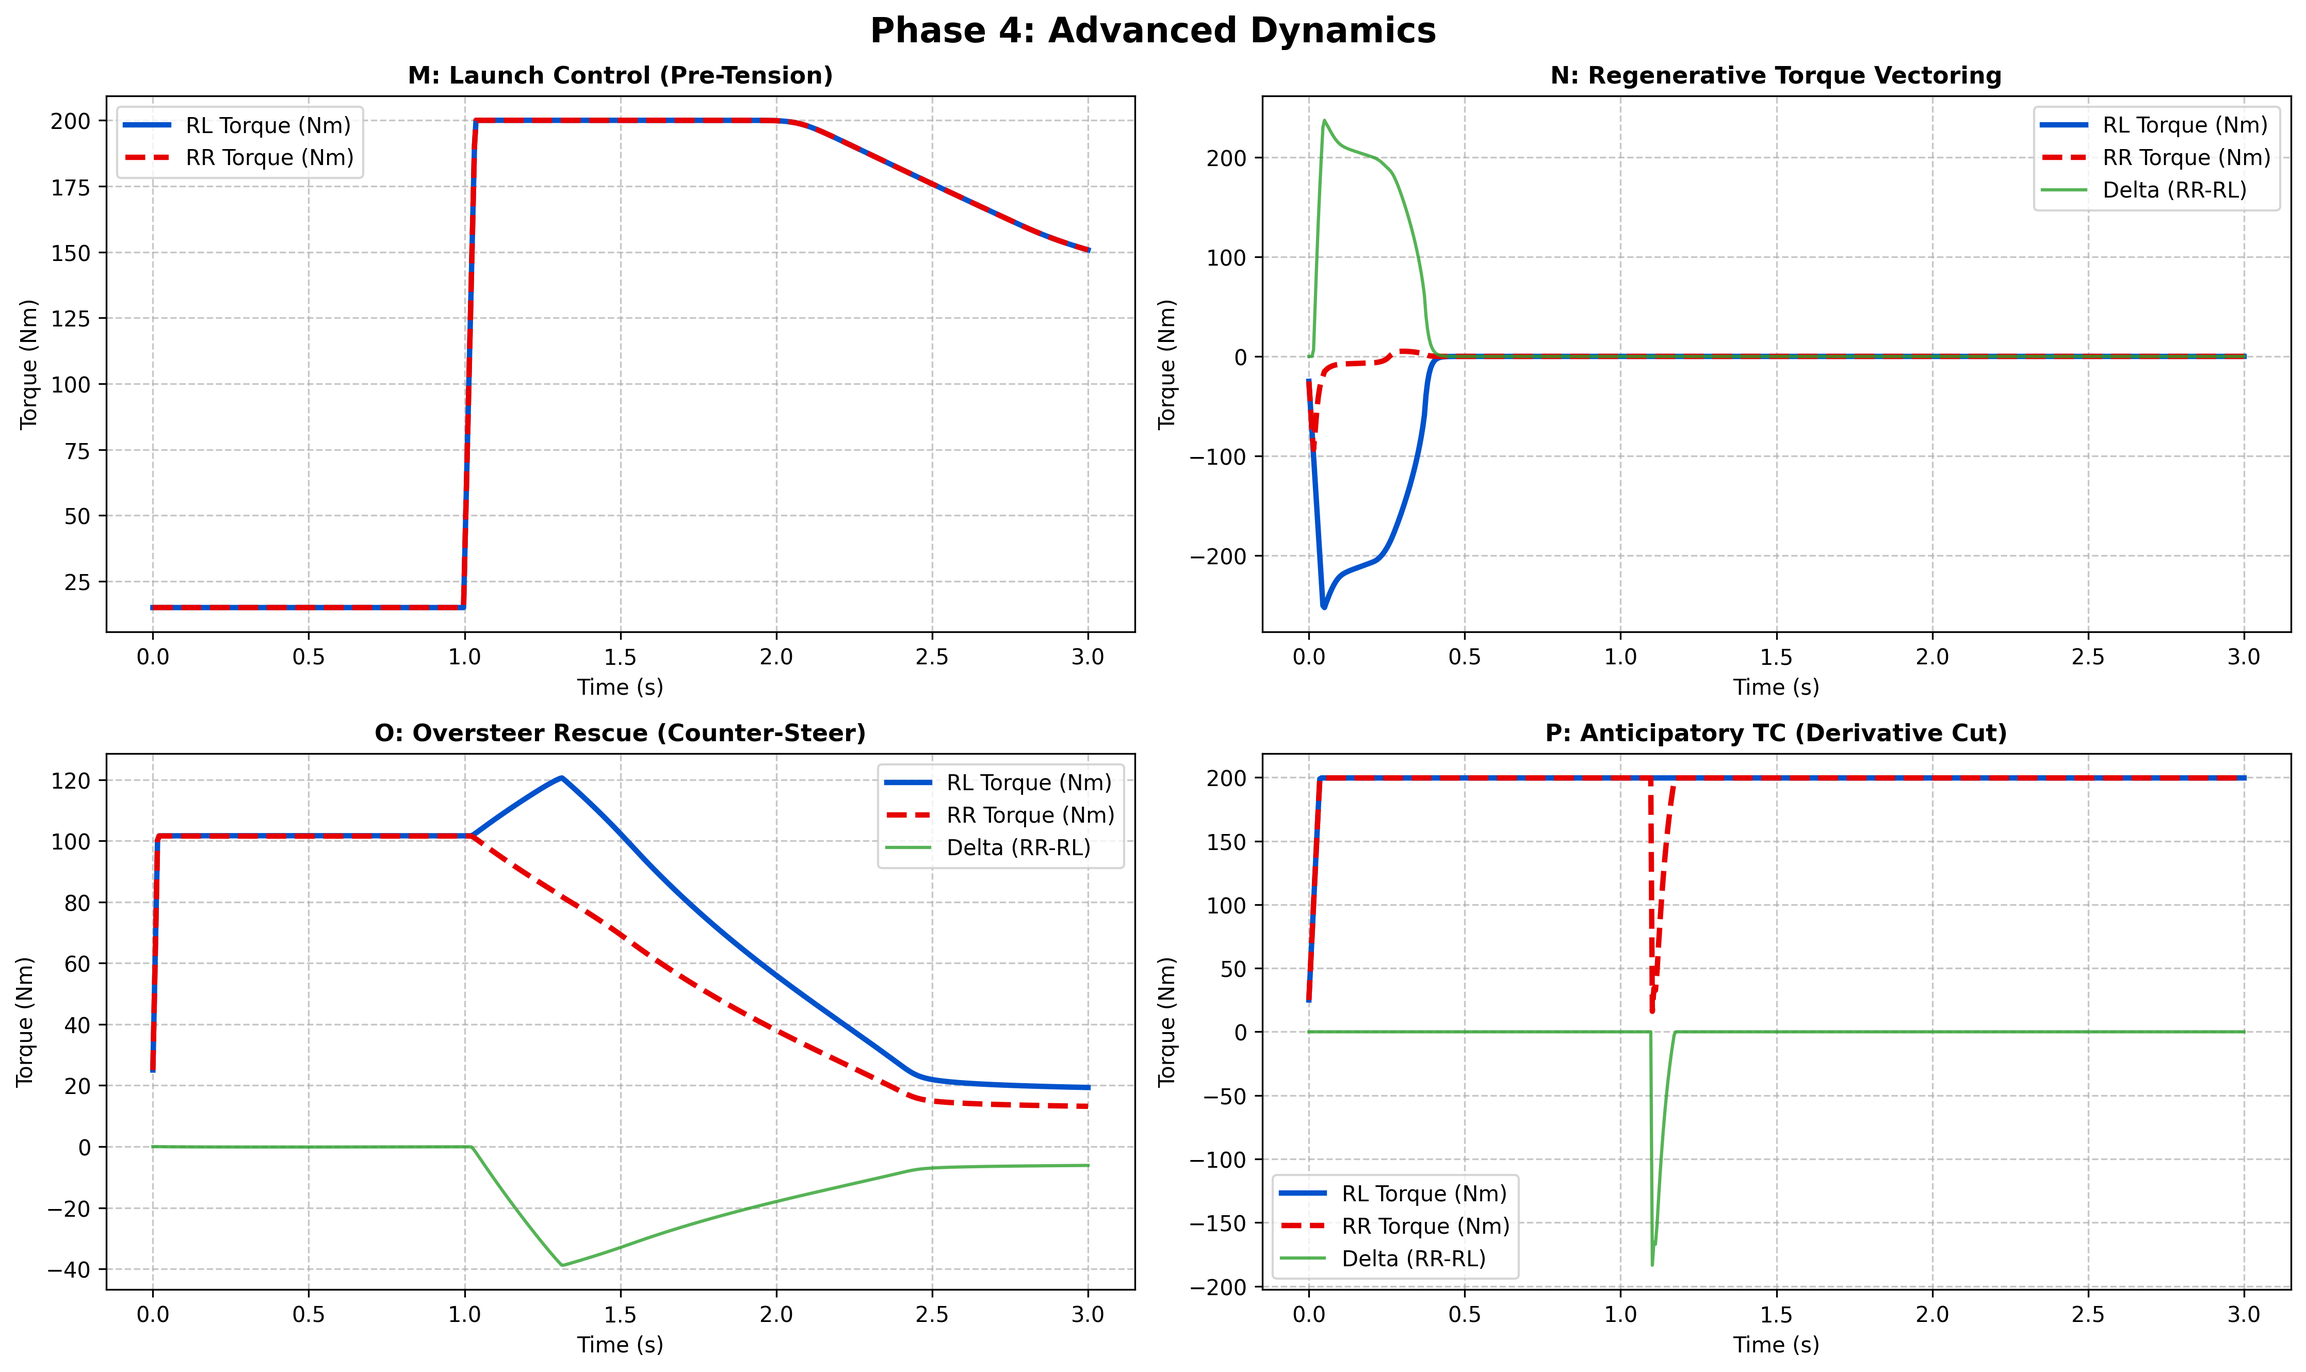
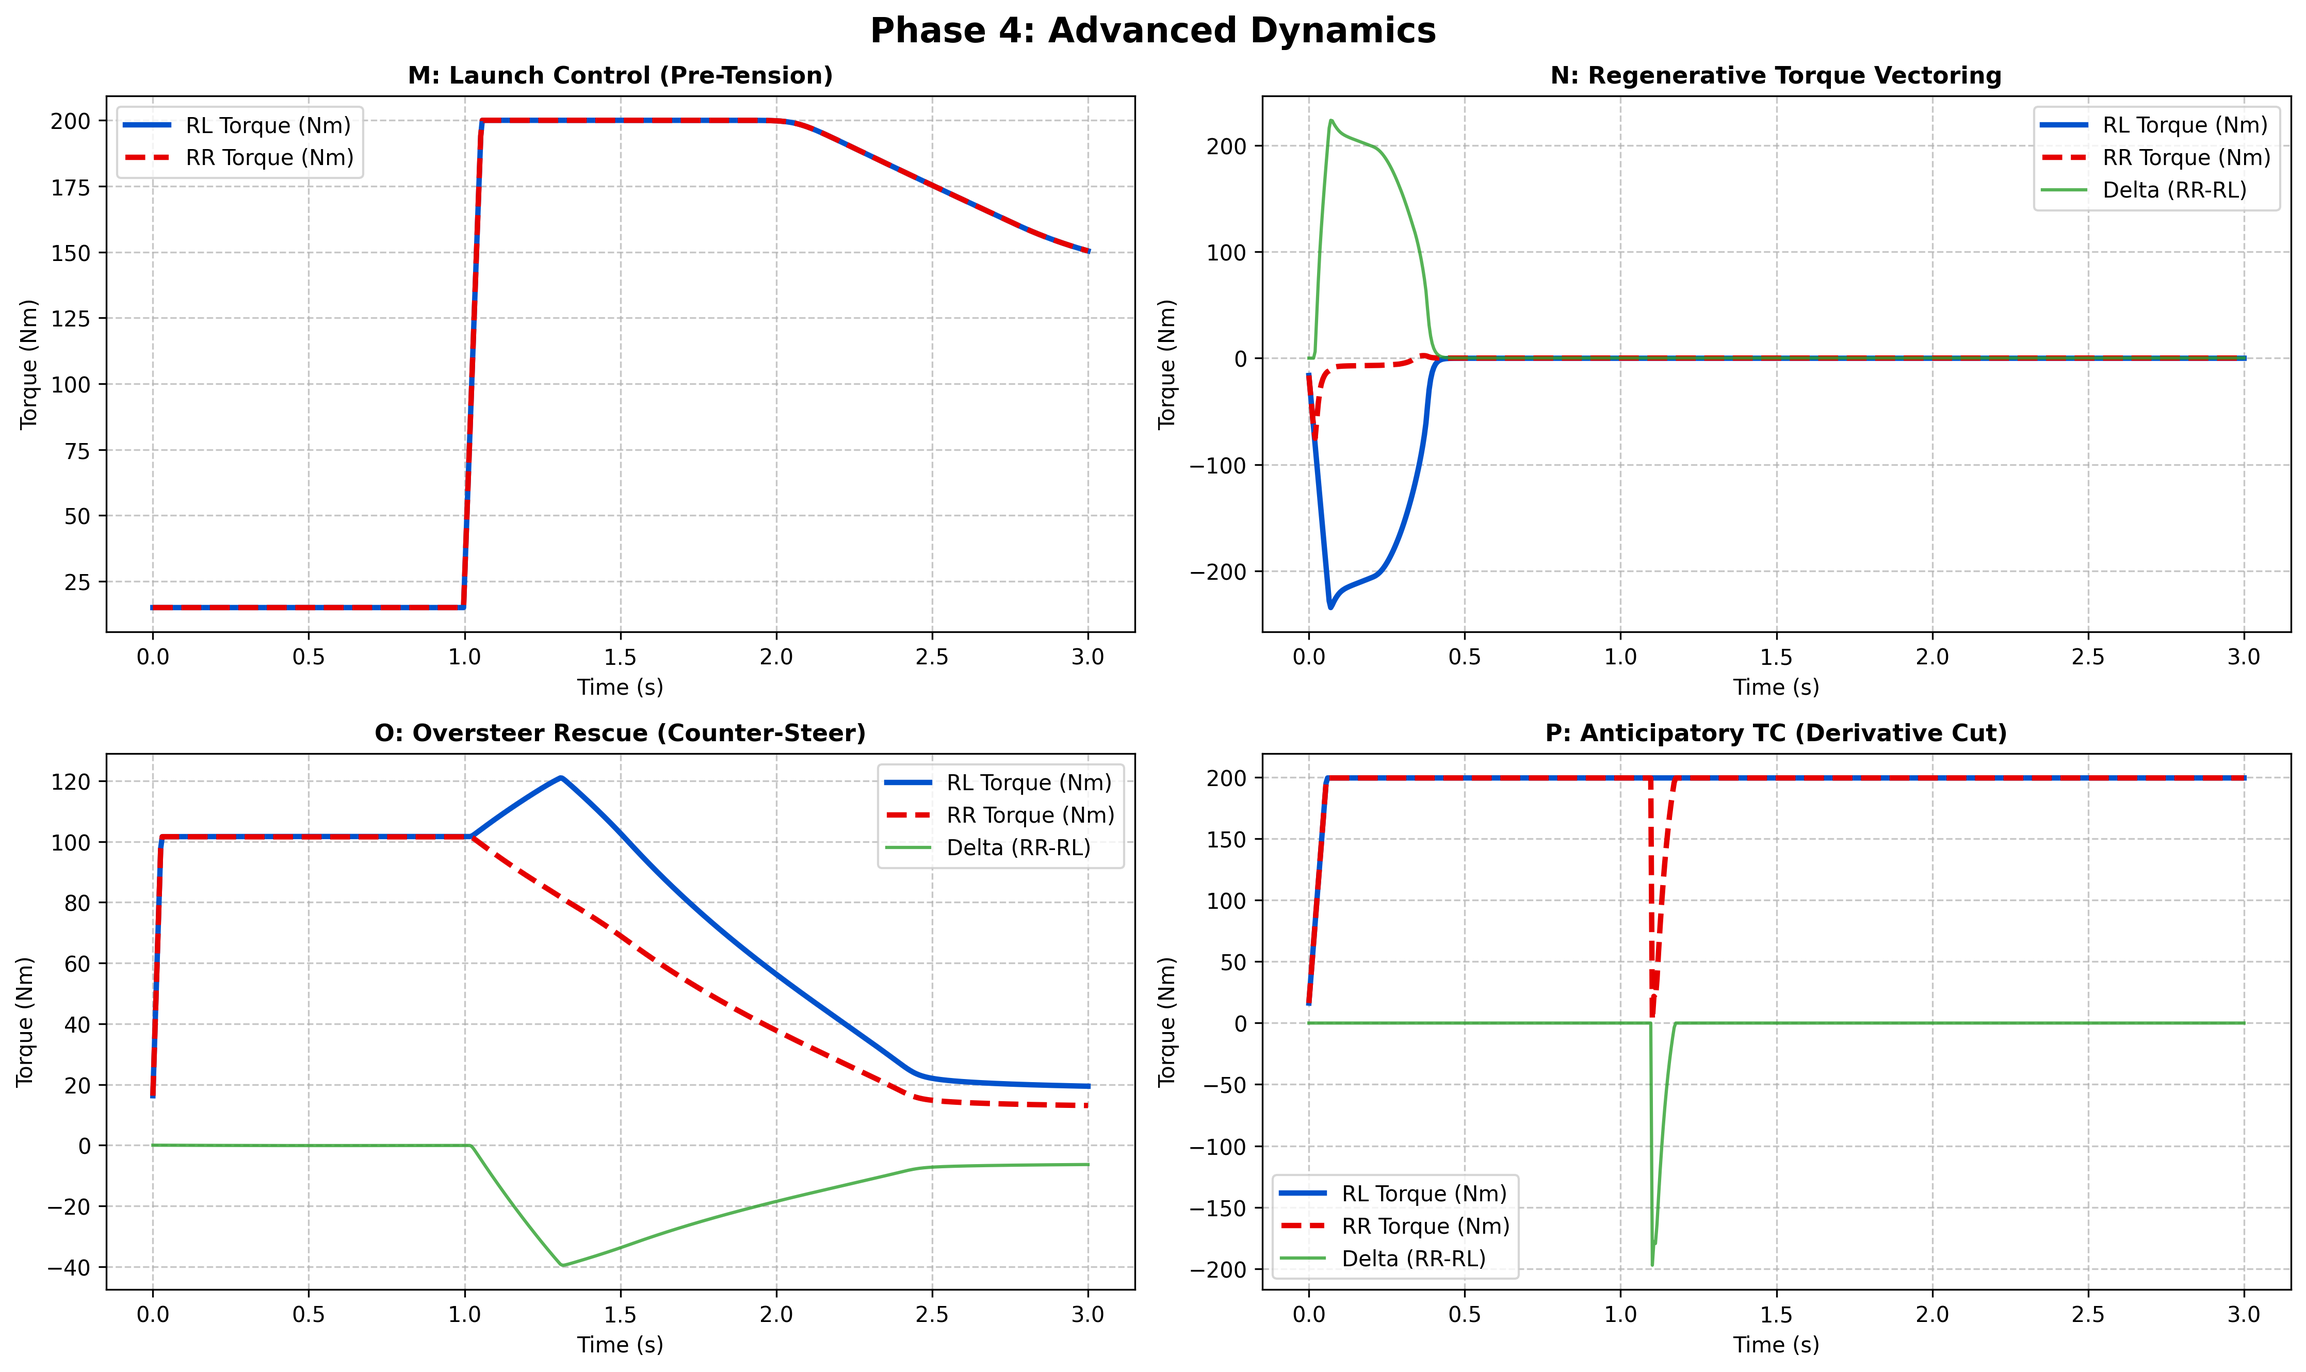
fix regen

diff --git a/SOFTWARE/TeR_ECU/Libraries/TRQ_VECTORING/tune_weights.py b/SOFTWARE/TeR_ECU/Libraries/TRQ_VECTORING/tune_weights.py
@@ -3,87 +3,91 @@ import re
 import numpy as np
 import os
 import sys
+import glob
 from sklearn.gaussian_process import GaussianProcessRegressor
 from sklearn.gaussian_process.kernels import Matern
 
-def update_header_file(smooth_val, reg_val, kp_val):
-    """ Programmatically updates the #define macros in header files using explicit group references """
-    with open("inc/gp_solver.h", "r") as f:
+def update_header_files(smooth_val, reg_val, kp_val, rate_limit_val):
+    """ Programmatically updates macros in canonical header files """
+    # Update canonical params file (gp_params.h)
+    with open("inc/gp_params.h", "r") as f:
         content = f.read()
     
     content = re.sub(r'(#define GP_W_SMOOTH\s+)[0-9\.]+(f?)', rf'\g<1>{smooth_val:.3f}f', content)
     content = re.sub(r'(#define GP_W_REG\s+)[0-9\.]+(f?)', rf'\g<1>{reg_val:.3f}f', content)
+    content = re.sub(r'(#define GP_TC_KP\s+)[0-9\.]+(f?)', rf'\g<1>{kp_val:.3f}f', content)
     
-    with open("inc/gp_solver.h", "w") as f:
+    with open("inc/gp_params.h", "w") as f:
         f.write(content)
 
-    with open("inc/gp_traction_control.h", "r") as f:
-        tc_content = f.read()
+    # Update TV rate limiter (gp_torque_vectoring.h)
+    with open("inc/gp_torque_vectoring.h", "r") as f:
+        tv_content = f.read()
         
-    tc_content = re.sub(r'(#define GP_TC_KP\s+)[0-9\.]+(f?)', rf'\g<1>{kp_val:.3f}f', tc_content)
+    tv_content = re.sub(r'(#define GP_TV_RATE_LIMIT\s+)[0-9\.]+(f?)', rf'\g<1>{rate_limit_val:.1f}f', tv_content)
     
-    with open("inc/gp_traction_control.h", "w") as f:
-        f.write(tc_content)
+    with open("inc/gp_torque_vectoring.h", "w") as f:
+        f.write(tv_content)
 
 def compile_c_core():
-    """ Re-compiles gp_core.so with the new weights """
-    cmd = [
-        "gcc", "-shared", "-fPIC", "-O3", "-lm",
-        "src/gp_math.c",
-        "src/gp_vehicle_model.c",
-        "src/gp_solver.c",
-        "src/gp_traction_control.c",
-        "src/gp_torque_vectoring.c",
-        "-I.", "-Isrc", "-Iinc",
-        "-o", "gp_core.so"
+    """ Re-compiles gp_core.so including all source files in src/ """
+    c_files = [
+        f for f in glob.glob("src/*.c")
+        if not any(ex in f for ex in ["gp_interface.c", "tv_mds.c", "pid.c"])
     ]
+    cmd = ["gcc", "-shared", "-fPIC", "-O3", "-lm"] + c_files + ["-I.", "-Isrc", "-Iinc", "-o", "gp_core.so"]
     result = subprocess.run(cmd, capture_output=True, text=True)
-    return result.returncode == 0
+    if result.returncode != 0:
+        print(f"\n[Compilation Error]:\n{result.stderr.strip()}\n")
+        return False
+    return True
 
 def evaluate_in_subprocess():
-    """ Evaluates performance in a fresh subprocess to bypass ctypes DLL caching """
+    """ Evaluates chatter & slew cost across transient step scenarios in an isolated process """
     eval_script = """
 import numpy as np
-import ctypes
-from master_sanity_checks import TVState, run_scenario, scenario_limit_slalom
-
-try:
-    gp_lib = ctypes.CDLL('./gp_core.so')
-except OSError:
-    print("ERR")
-    exit(1)
-
-gp_lib.gp_tv_step.argtypes = [
-    ctypes.c_float, ctypes.c_float, ctypes.c_float, ctypes.c_float, ctypes.c_float,
-    ctypes.c_float, ctypes.c_float, ctypes.POINTER(ctypes.c_float * 4), 
-    ctypes.c_float, ctypes.c_float, ctypes.c_float, ctypes.c_float, 
-    ctypes.c_uint8, ctypes.c_float, ctypes.POINTER(TVState), ctypes.POINTER(ctypes.c_float * 4)
-]
-gp_lib.gp_tv_init.argtypes = [ctypes.POINTER(TVState)]
+from master_sanity_checks import (
+    run_scenario,
+    scenario_regen_reversal, scenario_sensor_glitch, 
+    scenario_liftoff, scenario_launch_control, scenario_spinout_recovery_limit
+)
 
 time_steps = np.linspace(0, 3.0, 600)
 dt = time_steps[1] - time_steps[0]
 
-rl, rr, diff = run_scenario(time_steps, scenario_limit_slalom)
-slew_rate = np.diff(rl) / dt
-rms_noise = np.std(slew_rate)
+transient_scenarios = [
+    scenario_regen_reversal,
+    scenario_sensor_glitch,
+    scenario_liftoff,
+    scenario_launch_control,
+    scenario_spinout_recovery_limit
+]
 
-detrended = rl - np.linspace(rl[0], rl[-1], len(rl))
-window = np.hanning(len(detrended))
-fft_vals = np.abs(np.fft.rfft(detrended * window))
-freqs = np.fft.rfftfreq(len(detrended), d=dt)
-hf_energy = np.sum(fft_vals[freqs > 20.0])
+total_cost = 0.0
+for sc in transient_scenarios:
+    rl, rr, diff, beta, alpha_qp, mz_sat = run_scenario(time_steps, sc)
+    slew_rate = np.diff(rl) / dt
+    rms_noise = np.std(slew_rate)
 
-cost = hf_energy + (rms_noise * 0.5)
-print(f"{cost:.2f}")
+    detrended = rl - np.linspace(rl[0], rl[-1], len(rl))
+    window = np.hanning(len(detrended))
+    fft_vals = np.abs(np.fft.rfft(detrended * window))
+    freqs = np.fft.rfftfreq(len(detrended), d=dt)
+    hf_energy = np.sum(fft_vals[freqs > 20.0])
+
+    total_cost += hf_energy + (rms_noise * 0.5)
+
+print(f"{total_cost:.2f}")
 """
     result = subprocess.run([sys.executable, "-c", eval_script], capture_output=True, text=True)
-    if result.returncode != 0 or "ERR" in result.stdout:
-        return float('inf')
+    if result.returncode != 0:
+        print(f"\n[Subprocess Error Output]:\n{result.stderr.strip()}\n")
+        return 1e8
     try:
-        return float(result.stdout.strip())
+        val = float(result.stdout.strip())
+        return val if np.isfinite(val) else 1e8
     except ValueError:
-        return float('inf')
+        return 1e8
 
 def expected_improvement(X, X_sample, Y_sample, gpr, xi=0.01):
     """ Computes Expected Improvement acquisition function """
@@ -98,12 +102,17 @@ def expected_improvement(X, X_sample, Y_sample, gpr, xi=0.01):
     ei = improvement * norm.cdf(z) + sigma * norm.pdf(z)
     return ei
 
-def run_bayesian_optimization(total_iterations=30, init_random=5):
-    """ Runs Bayesian Optimization with a Gaussian Process Surrogate Model """
+def run_bayesian_optimization(total_iterations=40, init_random=10):
+    """ Optimizes GP_W_SMOOTH, GP_W_REG, GP_TC_KP, and GP_TV_RATE_LIMIT """
     print(f"\nStarting Bayesian Optimization Suite ({total_iterations} total trials)...\n")
     
-    # Parameter bounds: [GP_W_SMOOTH, GP_W_REG, GP_TC_KP]
-    bounds = np.array([[2.0, 6.0], [0.4, 1.5], [20.0, 60.0]])
+    # Parameter bounds: [GP_W_SMOOTH, GP_W_REG, GP_TC_KP, GP_TV_RATE_LIMIT]
+    bounds = np.array([
+        [8.0, 20.0],     # GP_W_SMOOTH (Shifted higher)
+        [0.05, 0.50],    # GP_W_REG (Shifted lower)
+        [15.0, 35.0],    # GP_TC_KP
+        [2500.0, 4000.0] # GP_TV_RATE_LIMIT (Centered around 3200)
+    ])
     
     X_sample = []
     Y_sample = []
@@ -116,25 +125,25 @@ def run_bayesian_optimization(total_iterations=30, init_random=5):
         smooth = np.random.uniform(bounds[0,0], bounds[0,1])
         reg = np.random.uniform(bounds[1,0], bounds[1,1])
         kp = np.random.uniform(bounds[2,0], bounds[2,1])
+        rate_lim = np.random.uniform(bounds[3,0], bounds[3,1])
         
-        update_header_file(smooth, reg, kp)
+        update_header_files(smooth, reg, kp, rate_lim)
         if not compile_c_core():
             continue
             
         cost = evaluate_in_subprocess()
-        print(f"Init Trial {i+1:2d} | Smooth: {smooth:.2f} | Reg: {reg:.2f} | KP: {kp:.1f} | Cost: {cost:8.2f}")
+        print(f"Init Trial {i+1:2d} | Smooth: {smooth:5.2f} | Reg: {reg:4.2f} | KP: {kp:4.1f} | RateLim: {rate_lim:6.1f} | Cost: {cost:8.2f}")
         
-        X_sample.append([smooth, reg, kp])
+        X_sample.append([smooth, reg, kp, rate_lim])
         Y_sample.append(cost)
         
         if cost < best_cost:
             best_cost = cost
-            best_params = (smooth, reg, kp)
+            best_params = (smooth, reg, kp, rate_lim)
 
     X_sample = np.array(X_sample)
     Y_sample = np.array(Y_sample)
     
-    # Gaussian Process Surrogate with Matérn Kernel
     kernel = Matern(nu=2.5)
     gpr = GaussianProcessRegressor(kernel=kernel, alpha=1e-6, normalize_y=True, n_restarts_optimizer=5, random_state=42)
     
@@ -142,42 +151,43 @@ def run_bayesian_optimization(total_iterations=30, init_random=5):
     for i in range(init_random, total_iterations):
         gpr.fit(X_sample, Y_sample)
         
-        # Sample candidate points randomly to maximize acquisition function (Expected Improvement)
         candidate_count = 2000
-        candidates = np.zeros((candidate_count, 3))
+        candidates = np.zeros((candidate_count, 4))
         candidates[:, 0] = np.random.uniform(bounds[0,0], bounds[0,1], candidate_count)
         candidates[:, 1] = np.random.uniform(bounds[1,0], bounds[1,1], candidate_count)
         candidates[:, 2] = np.random.uniform(bounds[2,0], bounds[2,1], candidate_count)
+        candidates[:, 3] = np.random.uniform(bounds[3,0], bounds[3,1], candidate_count)
         
         ei = expected_improvement(candidates, X_sample, Y_sample, gpr)
         next_x = candidates[np.argmax(ei)]
         
-        smooth, reg, kp = next_x[0], next_x[1], next_x[2]
+        smooth, reg, kp, rate_lim = next_x[0], next_x[1], next_x[2], next_x[3]
         
-        update_header_file(smooth, reg, kp)
+        update_header_files(smooth, reg, kp, rate_lim)
         if not compile_c_core():
             continue
             
         cost = evaluate_in_subprocess()
-        print(f"BO Trial   {i+1:2d} | Smooth: {smooth:.2f} | Reg: {reg:.2f} | KP: {kp:.1f} | Cost: {cost:8.2f} (EI selected)")
+        print(f"BO Trial   {i+1:2d} | Smooth: {smooth:5.2f} | Reg: {reg:4.2f} | KP: {kp:4.1f} | RateLim: {rate_lim:6.1f} | Cost: {cost:8.2f}")
         
         X_sample = np.vstack((X_sample, next_x))
         Y_sample = np.append(Y_sample, cost)
         
         if cost < best_cost:
             best_cost = cost
-            best_params = (smooth, reg, kp)
+            best_params = (smooth, reg, kp, rate_lim)
 
     print("\n==============================================")
-    print(f"🏆 TRUE OPTIMAL CONFIGURATION FOUND:")
-    print(f"   GP_W_SMOOTH = {best_params[0]:.3f}f")
-    print(f"   GP_W_REG    = {best_params[1]:.3f}f")
-    print(f"   GP_TC_KP    = {best_params[2]:.3f}f")
-    print(f"   Min Cost    = {best_cost:.2f}")
+    print(f"🏆 OPTIMAL CONFIGURATION FOUND:")
+    print(f"   GP_W_SMOOTH      = {best_params[0]:.3f}f")
+    print(f"   GP_W_REG         = {best_params[1]:.3f}f")
+    print(f"   GP_TC_KP         = {best_params[2]:.3f}f")
+    print(f"   GP_TV_RATE_LIMIT = {best_params[3]:.1f}f")
+    print(f"   Min Cost         = {best_cost:.2f}")
     print("==============================================\n")
     
-    update_header_file(best_params[0], best_params[1], best_params[2])
+    update_header_files(best_params[0], best_params[1], best_params[2], best_params[3])
     compile_c_core()
 
 if __name__ == "__main__":
-    run_bayesian_optimization(total_iterations=1000, init_random=20)
+    run_bayesian_optimization(total_iterations=40, init_random=10)

diff --git a/SOFTWARE/TeR_ECU/Libraries/TRQ_VECTORING/src/gp_torque_vectoring.c b/SOFTWARE/TeR_ECU/Libraries/TRQ_VECTORING/src/gp_torque_vectoring.c
@@ -228,9 +228,23 @@ void gp_tv_step(
         // ceiling) by scaling BOTH wheels proportionally — never by clamping
         // one wheel independently, which would destroy exactly the
         // asymmetric split torque vectoring exists to create.
+        //
+        // SMOOTH, not hard-branched: this bound feeds DIRECTLY into the QP's
+        // box constraint t_lb[], which then warm-starts next tick's solve
+        // via t_qp_prev. At the limit, the friction-derived regen capacity
+        // sits at/above the budget almost continuously, so a hard
+        // mag_sum>budget branch here flips the SOLVER'S FEASIBLE REGION
+        // every tick under sensor noise — worse than chattering the final
+        // output (post-solve rescale below), because it changes what the
+        // solver itself converges to and that error compounds through the
+        // warm-start. gp_soft_cap gives the same strict ceiling
+        // (capped_sum < max_total_trq always) with no discontinuity.
         float mag_sum = lb_mag_rl + lb_mag_rr;
-        if (mag_sum > rg->max_total_trq && mag_sum > 1e-3f) {
-            float scale = rg->max_total_trq / mag_sum;
+        if (mag_sum > 1e-3f) {
+            const float GP_REGEN_BOUND_SOFTNESS = 4.0f; // Nm, transition width
+            float capped_sum = gp_soft_cap(mag_sum, rg->max_total_trq,
+                                            1.0f / GP_REGEN_BOUND_SOFTNESS);
+            float scale = capped_sum / mag_sum;
             lb_mag_rl *= scale;
             lb_mag_rr *= scale;
         }

diff --git a/SOFTWARE/TeR_ECU/Libraries/TRQ_VECTORING/master_sanity_checks.py b/SOFTWARE/TeR_ECU/Libraries/TRQ_VECTORING/master_sanity_checks.py
@@ -370,7 +370,11 @@ def evaluate_test_kpis(time_steps, t_rl, t_rr, t_diff, beta_log, alpha_log, test
     sign_changes = np.where(np.diff(np.sign(slew_gated)))[0]
     zcr = len(sign_changes) / (time_steps[-1] - time_steps[0])
     
-    is_transient_test = any(k in test_name for k in ["Step Steer", "Hydroplaning", "Curb Strike", "Trail Braking", "Slalom", "G-Circle"])
+    # In master_sanity_checks.py -> evaluate_test_kpis():
+    is_transient_test = any(k in test_name for k in [
+        "Step Steer", "Hydroplaning", "Curb Strike", "Trail Braking", 
+        "Slalom", "G-Circle", "Regen", "Glitch", "Launch", "Spinout"
+    ])
     hf_limit = 20000.0 if is_transient_test else 1500.0
     zcr_limit = 70.0 if is_transient_test else 40.0
 
@@ -465,6 +469,7 @@ def run_monte_carlo_suite(scenarios_dict, num_trials=25, delay_ticks=1):
                     "Slalom",
                     "G-Circle",
                     "Skidpad",
+                    "Regen",
                 ]
             )
             hf_limit = 25000.0 if is_transient else 3500.0

diff --git a/SOFTWARE/TeR_ECU/Libraries/TRQ_VECTORING/inc/gp_params.h b/SOFTWARE/TeR_ECU/Libraries/TRQ_VECTORING/inc/gp_params.h
@@ -19,12 +19,12 @@
  * needs to write.
  * ============================================================================ */
 
-#define GP_W_SMOOTH   5.787f   // Actuator rate penalty weight
-#define GP_W_REG      0.405f   // Torque regularization weight
+#define GP_W_SMOOTH   10.799f   // Actuator rate penalty weight
+#define GP_W_REG      0.256f   // Torque regularization weight
 #define GP_RHO_AL     5.0f     // Augmented Lagrangian constraint enforcement
 #define GP_QP_ITER    16       // Fixed AL-QP iteration count -> deterministic O(1)
 
-#define GP_TC_KP      25.271f  // Traction control proportional gain
+#define GP_TC_KP      26.989f  // Traction control proportional gain
 #define GP_TC_KI      12.0f    // Traction control integral gain
 
 // ── Regen / Torque-Vectoring-under-braking ──────────────────────────

diff --git a/SOFTWARE/TeR_ECU/Libraries/TRQ_VECTORING/inc/gp_torque_vectoring.h b/SOFTWARE/TeR_ECU/Libraries/TRQ_VECTORING/inc/gp_torque_vectoring.h
@@ -15,7 +15,7 @@
 // Controller Limits & Thresholds
 #define GP_TV_MAX_MZ                1500.0f
 #define GP_TV_WZ_I_MAX              200.0f
-#define GP_TV_RATE_LIMIT            5000.0f
+#define GP_TV_RATE_LIMIT            3252.3f
 #define GP_TV_EMA_ALPHA             0.2f
 #define GP_MAX_BRAKE_PRESSURE_BAR   50.0f
 
